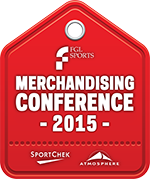
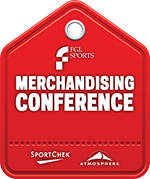
remove year

Changed region(s): [[0.3467, 0.6145, 0.7467, 0.7542], [0.24, 0.6704, 0.32, 0.7263]]

diff --git a/index.php b/index.php
@@ -15,7 +15,7 @@
         em{color: #468847;}
         .error{color: #c00; font-size: 12px;}
         .container{padding-top: 20px;}
-        h3{ margin-bottom: 20px; text-transform: uppercase; font-size: 40px; font-family: GalaxiePolarisCondensed-Bold; background: url('images/tag_2016.png') top left no-repeat; height: 195px; padding-left: 195px; padding-top: 10px;}
+        h3{ margin-bottom: 20px; text-transform: uppercase; font-size: 40px; font-family: GalaxiePolarisCondensed-Bold; background: url('images/tag.png') top left no-repeat; height: 195px; padding-left: 195px; padding-top: 10px;}
         h3 span {font-family: GalaxiePolarisCondensed-Light; display: block; font-size: 30px;}
         h3 span.reg{font-family: GalaxiePolarisCondensed-Book; display: block; padding-top: 5px; font-size: 35px;}
         .declinelabel{ font-family: GalaxiePolarisCondensed-Book; font-size: 16px; text-transform: uppercase;}
@@ -31,7 +31,7 @@
 
         <form class="form-horizontal" id="regform">
             <fieldset>
-                <h3>Merchandising Conference 2017 <span>April 25 - 27, 2016</span><span>Rimrock Hotel &amp; Resort &nbsp;&nbsp;&nbsp; Banff, AB</span> <span class="reg">Registration</span></h3>
+                <h3>Merchandising Conference 2017 <span>April 25 - 27, 2017</span><span>Rimrock Hotel &amp; Resort &nbsp;&nbsp;&nbsp; Banff, AB</span> <span class="reg">Registration</span></h3>
 				<br />
 				<br />
             <div class="form-group">
